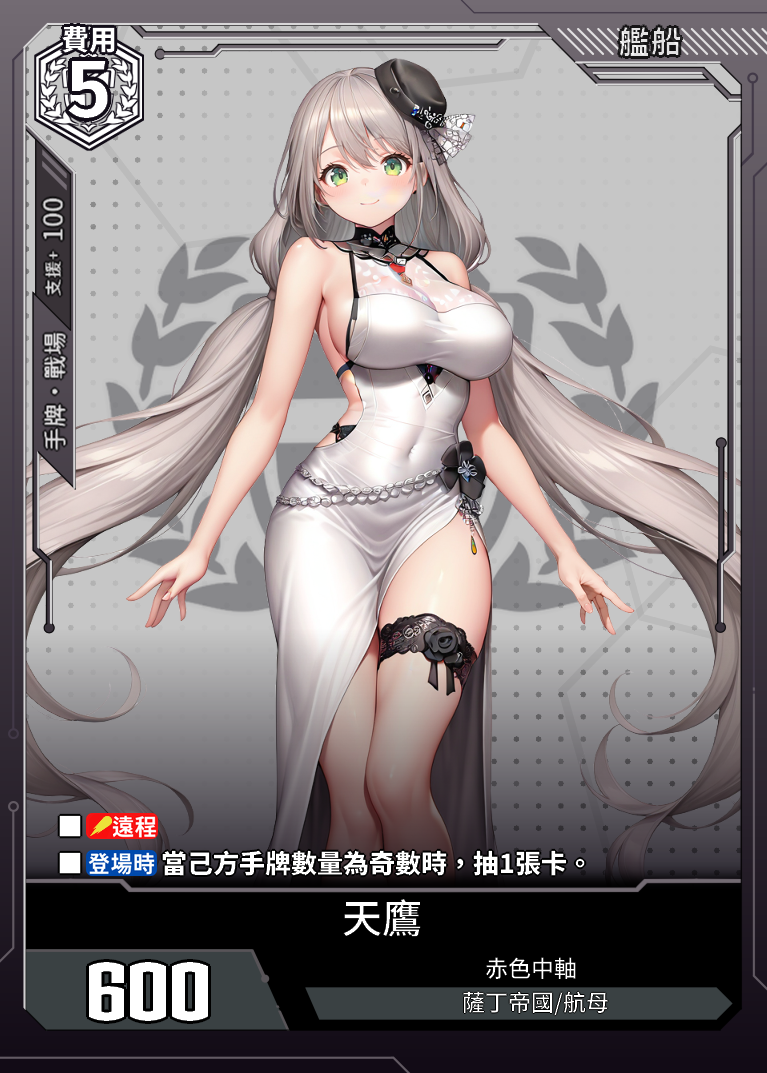
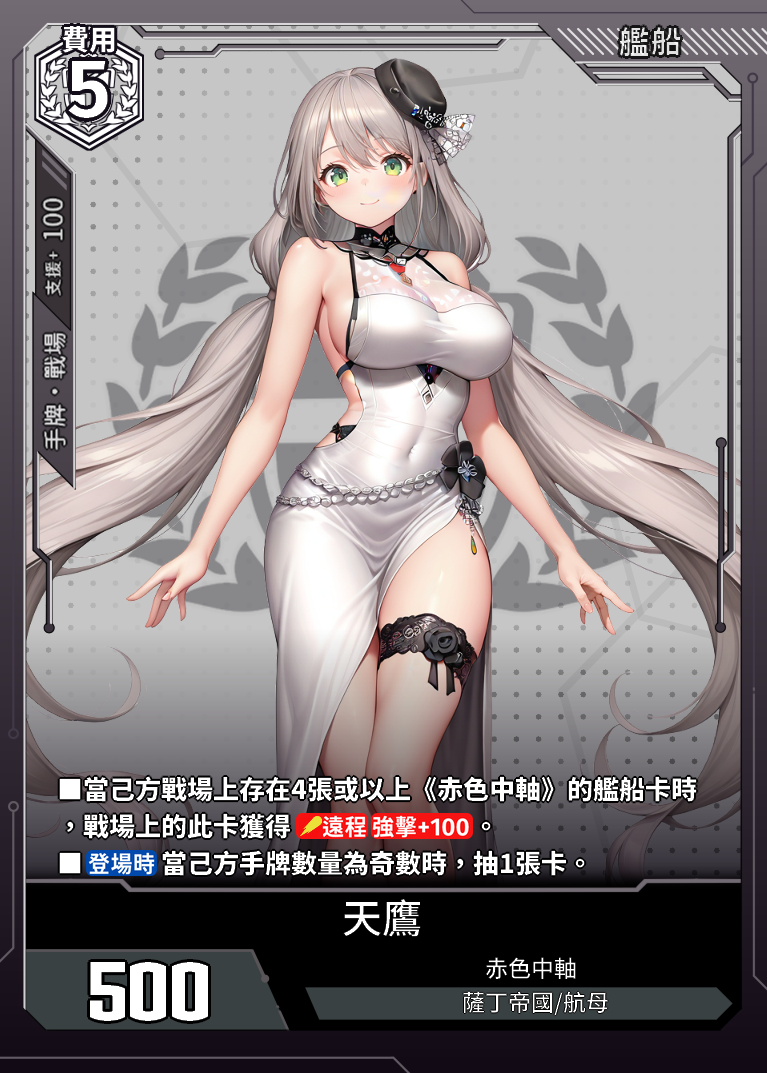
更新上位、修CE02

Changed region(s): [[0.06, 0.7074, 0.9296, 0.7996], [0.09, 0.8919, 0.1799, 0.9534]]

diff --git a/data.js b/data.js
@@ -24157,7 +24157,7 @@ const cards = [
             "顏　色": "紅",
             "種　類": "艦船卡",
             "費　用": "3",
-            "戰　力": "400",
+            "戰　力": "300",
             "陣　營": "重櫻",
             "艦船類型": "驅逐",
             "罕　貴": "-",
@@ -24165,7 +24165,7 @@ const cards = [
             "支援範圍": "手牌·戰場",
             "支援值": "100"
         },
-        "card_effect": "■當對手手牌數量為5或以下時，戰場上的此卡戰力+100。■【登場時】可以將己方戰場上除「雪風」以外的1張《重櫻》艦船卡擊破：對方捨棄1張手牌。",
+        "card_effect": "■【強擊+200】■【攻擊時】可以將己方戰場上除「雪風」以外的1張《重櫻》艦船卡擊破：對方捨棄1張手牌。",
         "acquisition_method": "CE02-早期測試"
     },
 	{
@@ -24488,7 +24488,7 @@ const cards = [
             "支援範圍": "手牌·戰場",
             "支援值": "100"
         },
-        "card_effect": "■【每回合1次】己方戰場上的艦船卡因卡牌技能被擊破或送入撤退區時，將己方戰場上的1張《自由鳶尾》卡牌轉為激活狀態。",
+        "card_effect": "■【每回合1次】己方戰場上的艦船卡因卡牌技能被擊破或送入撤退區時，將己方戰場上的1張《自由鳶尾》艦船卡轉為激活狀態。",
         "acquisition_method": "CE02-早期測試"
     },
 	{
@@ -25297,7 +25297,7 @@ const cards = [
             "顏　色": "黑",
             "種　類": "艦船卡",
             "費　用": "5",
-            "戰　力": "600",
+            "戰　力": "500",
             "陣　營": "薩丁帝國",
             "艦船類型": "航母",
             "罕　貴": "-",
@@ -25305,7 +25305,7 @@ const cards = [
             "支援範圍": "手牌·戰場",
             "支援值": "100"
         },
-        "card_effect": "■【遠程】■【登場時】當己方手牌數量奇數時，抽1張卡。",
+        "card_effect": "■當己方戰場上存在4張或以上《赤色中軸》的艦船卡時，戰場上的此卡獲得【遠程】【強擊+100】。■【登場時】當己方手牌數量奇數時，抽1張卡。",
         "acquisition_method": "CE02-早期測試"
     },
 	{

diff --git a/topdeck.js b/topdeck.js
@@ -1,6 +1,24 @@
 // topdeck.js
 const topDecks = [
   {
+    "deck_id": "20260426-1",
+    "L_name": "列星頓",
+    "Format": "7.5.1",
+    "Description": "20260426 貓腳印-士林店 信濃賽 8人 冠軍 列星頓 男爵",
+    "Level": "常規賽",
+    "Players": 8,
+    "Champion": 1
+  },
+  {
+    "deck_id": "20260425-1",
+    "L_name": "武藏",
+    "Format": "7.5.1",
+    "Description": "20260425 貓腳印-東門店 信濃賽 4人(7.5.1) 冠軍 武藏 そこのやつ",
+    "Level": "常規賽",
+    "Players": 4,
+    "Champion": 1
+  },
+  {
     "deck_id": "20260419-1",
     "L_name": "拉斐爾",
     "Format": "7.5.1",
